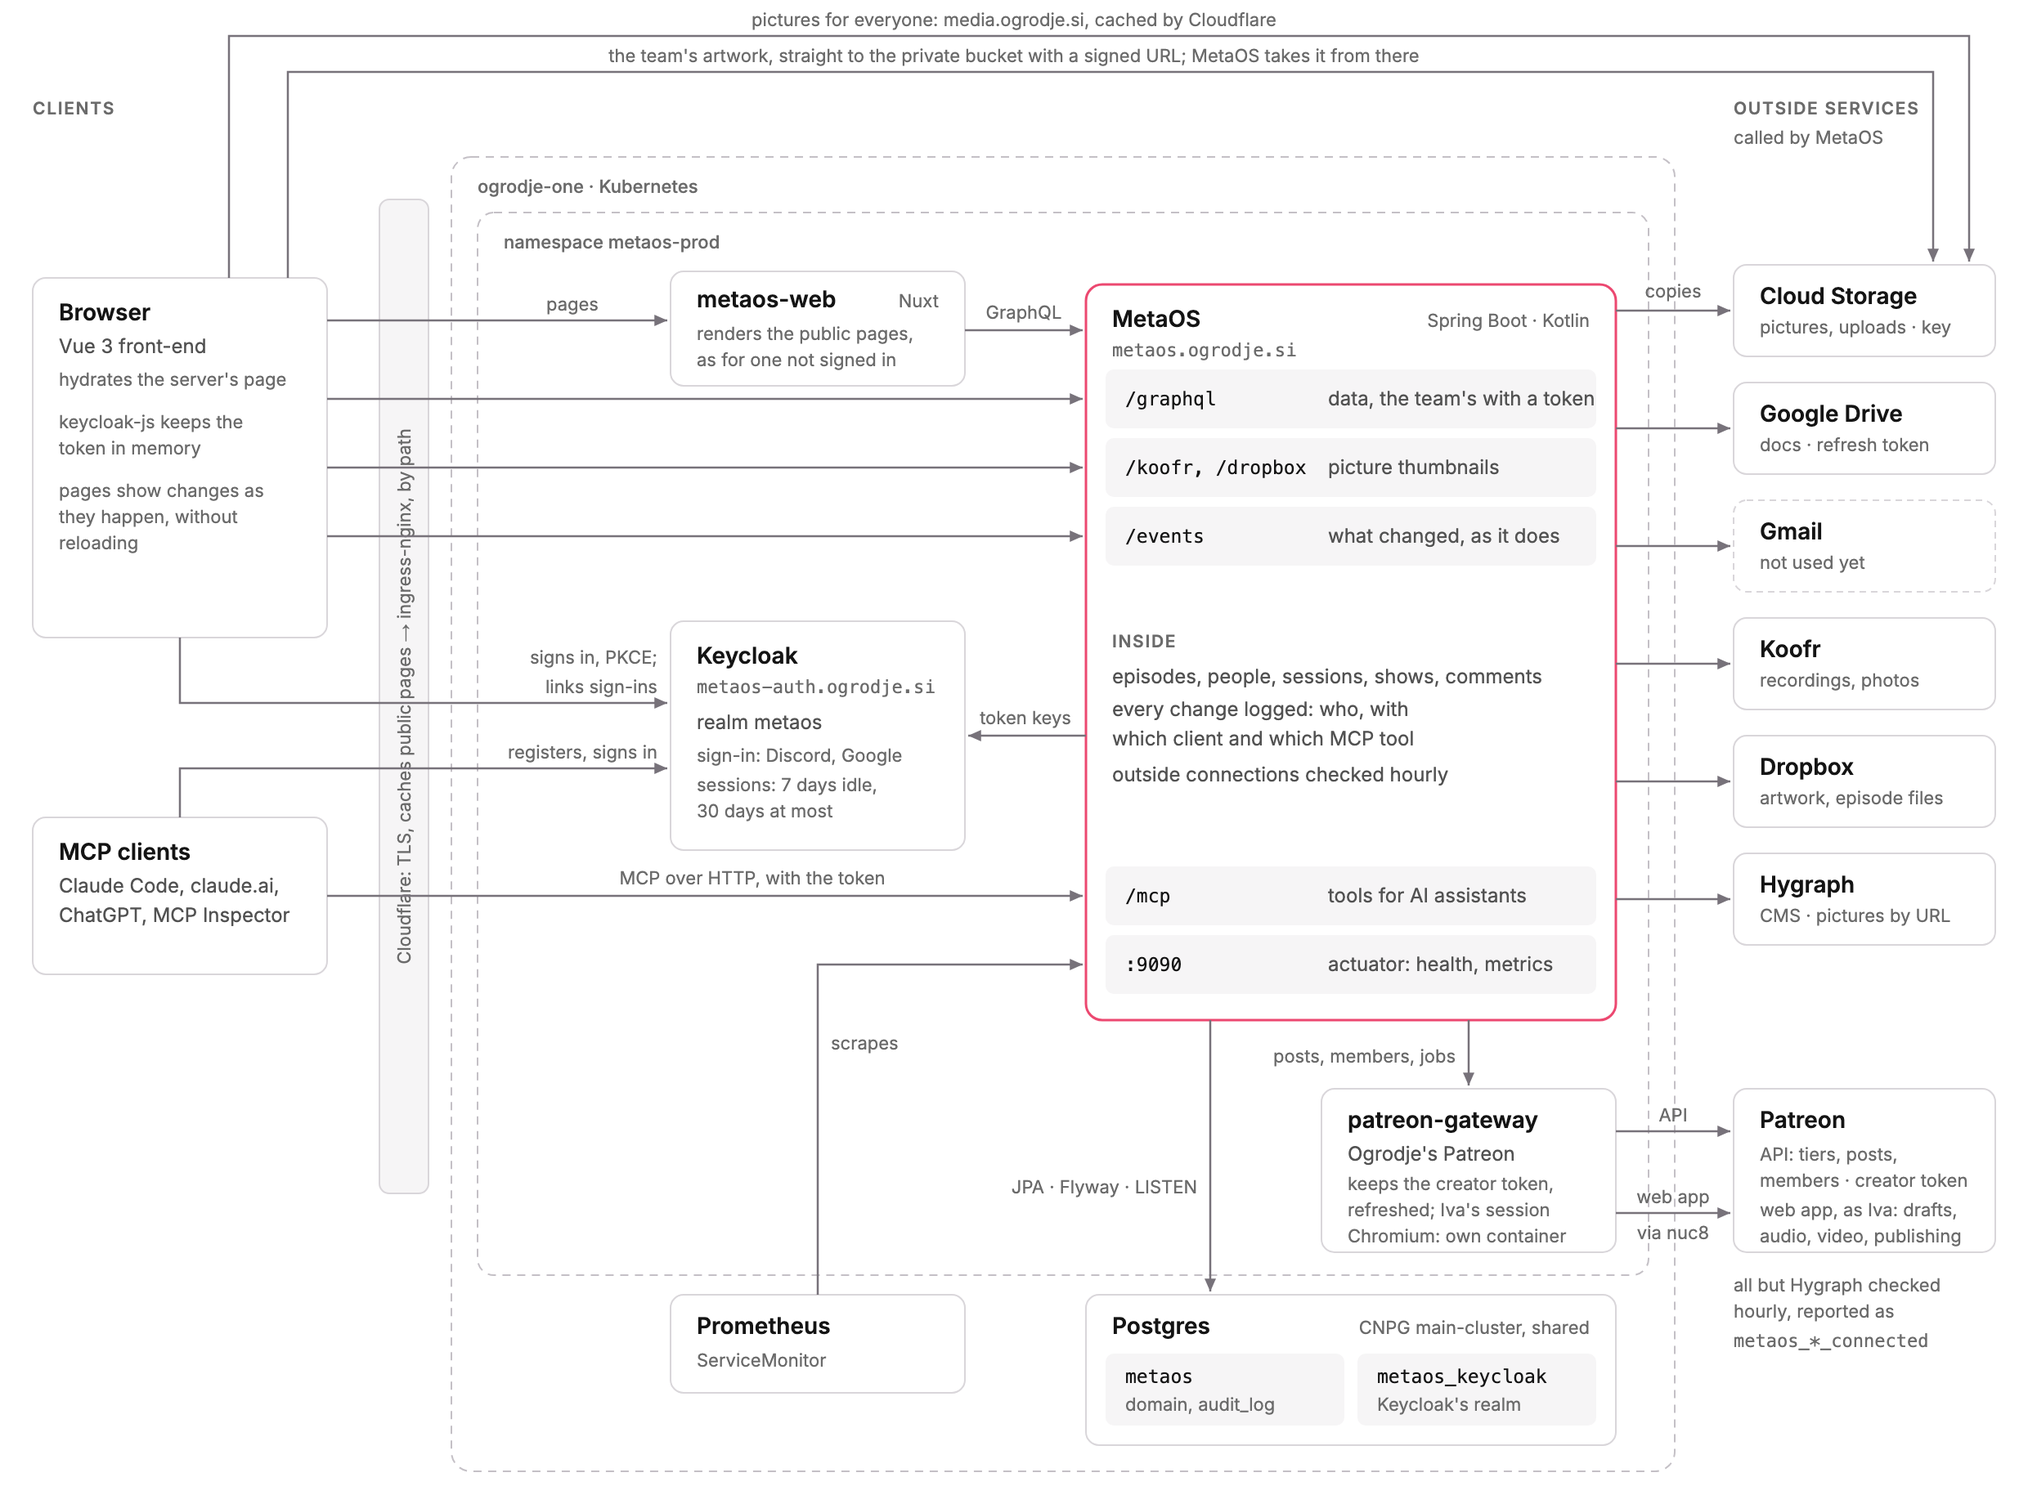
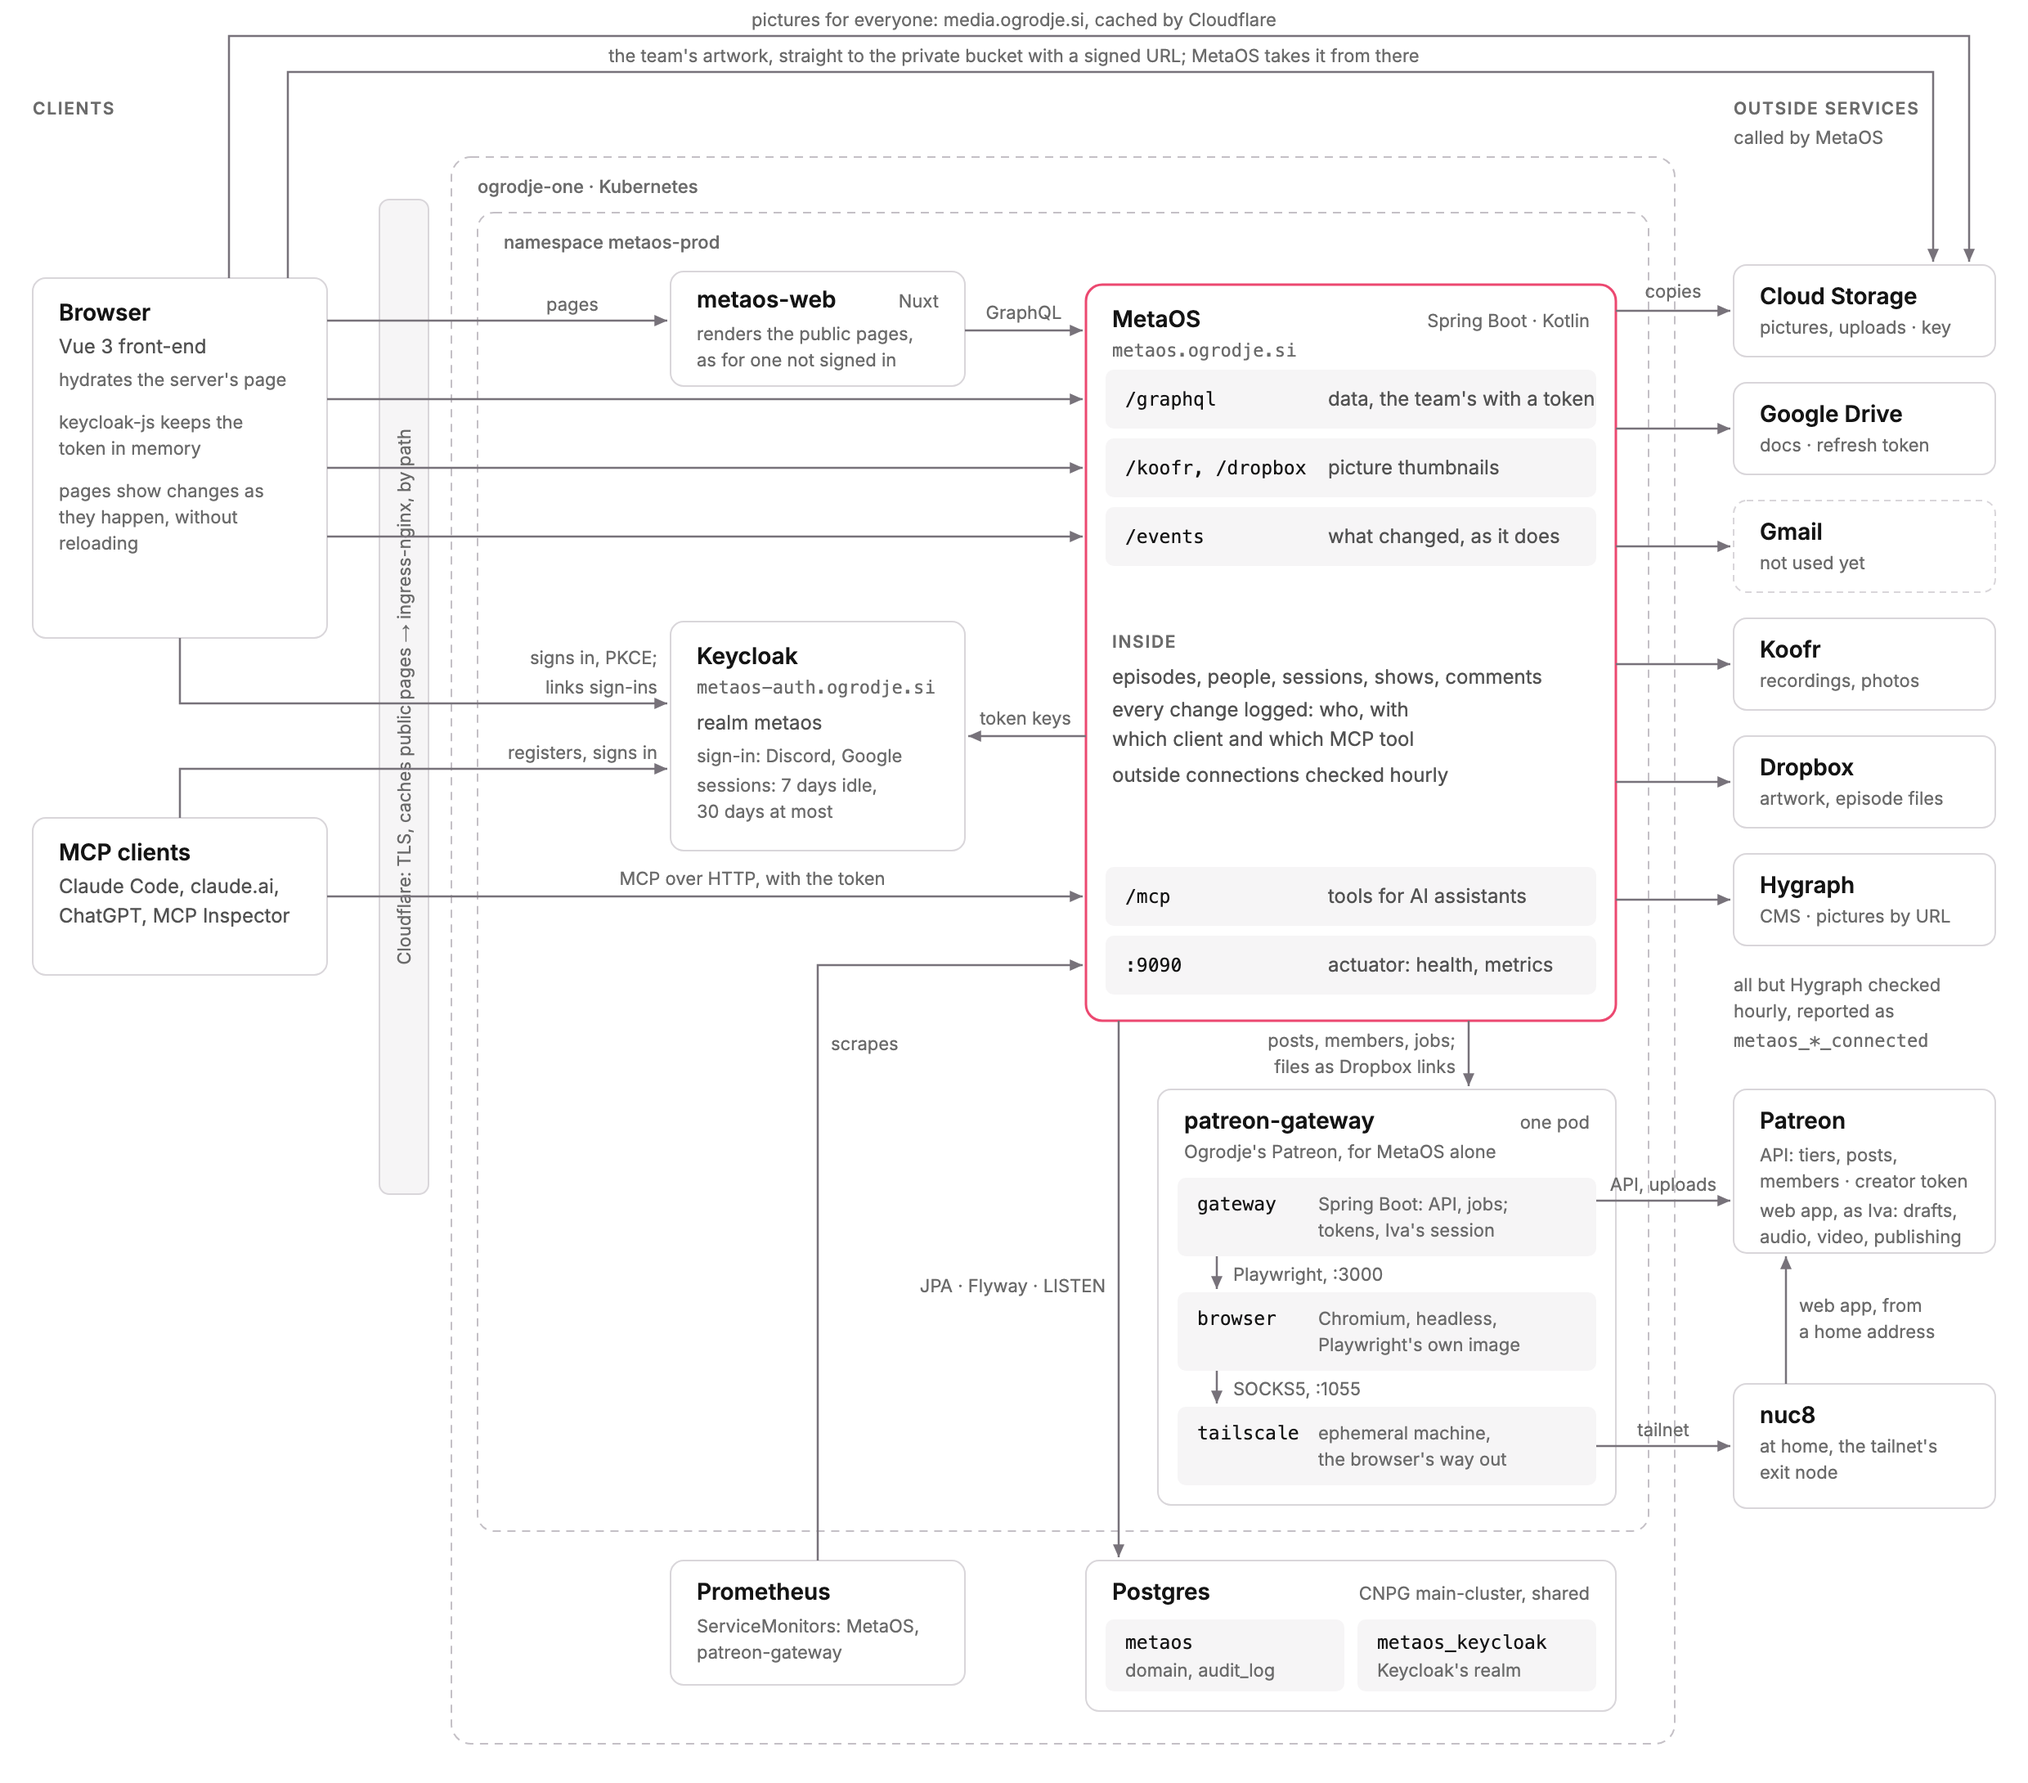
list_patreon_drafts, and patreon-gateway's pod in the architecture diagram (OG-23) (#34)
* list_patreon_drafts: the drafts on Patreon, through its web app (OG-23)

Patreon's API lists only published posts, so the team couldn't see its drafts
through MetaOS. The gateway's GET /drafts asks Patreon's web API for them, as
the creator's Library does (filter[is_draft]=true), last edited first, with
what each is (text, audio or video post) and where to edit it. MetaOS has it as
the list_patreon_drafts MCP tool, on the Usage page too.

* Architecture: patreon-gateway's pod, its browser and Tailscale, and nuc8 (OG-23)

The diagram showed patreon-gateway as one box with Patreon's web app "via nuc8".
It now draws the pod's three containers - the gateway, the browser (Chromium in
Playwright's image, over Playwright on :3000) and tailscale (SOCKS5 on :1055) -
and nuc8 at home, the tailnet's exit node, through which only the browser's
pages reach Patreon; the gateway's API calls and uploads go there straight.
Postgres and Prometheus move down to make room, and Prometheus says it scrapes
patreon-gateway too. The README's paragraph under it says the same.

---------

diff --git a/patreon-gateway/src/main/kotlin/si/ogrodje/patreon/PatreonWeb.kt b/patreon-gateway/src/main/kotlin/si/ogrodje/patreon/PatreonWeb.kt
@@ -36,7 +36,10 @@ data class PostSpec(
     val access: Access? = null,
 )
 
-/** A post as Patreon's web app has it, drafts too. */
+/**
+ * A post as Patreon's web app has it, drafts too. [type] is Patreon's: text_only, podcast (audio), video_external_file
+ * (video), ...
+ */
 data class WebPost(
     val id: String,
     val title: String?,
@@ -45,6 +48,8 @@ data class WebPost(
     val publishedAt: OffsetDateTime?,
     val scheduledFor: OffsetDateTime?,
     val draft: Boolean,
+    val type: String? = null,
+    val editedAt: OffsetDateTime? = null,
 )
 
 /**
@@ -95,6 +100,19 @@ class PatreonWeb(private val browser: Browser, private val api: PatreonApi, priv
     }
 
     fun get(job: String, id: String): WebPost = session(job) { webPost(current(it, postId(id))) }
+
+    /**
+     * The campaign's drafts, those scheduled too, last edited first, as its Library lists them: Patreon's API has only
+     * the published ones.
+     */
+    fun drafts(job: String): List<WebPost> = session(job) { session ->
+        session.call(
+            "GET",
+            "/api/posts?filter%5Bcampaign_id%5D=${api.campaignId()}&filter%5Bis_draft%5D=true" +
+                "&fields%5Bpost%5D=$WEB_POST_FIELDS&sort=-edited_at&page%5Bcount%5D=100",
+            null,
+        )["data"]?.toList().orEmpty().map(::webPost).filter { it.draft }
+    }
 
     /**
      * Puts a file on a draft as its audio or video, as the editor does: the post becomes a podcast post (and, as in the
@@ -272,6 +290,8 @@ class PatreonWeb(private val browser: Browser, private val api: PatreonApi, priv
             publishedAt = published,
             scheduledFor = attributes.text("scheduled_for")?.let(::patreonTime),
             draft = published == null,
+            type = attributes.text("post_type"),
+            editedAt = attributes.text("edited_at")?.let(::patreonTime),
         )
     }
 
@@ -374,7 +394,7 @@ class PatreonWeb(private val browser: Browser, private val api: PatreonApi, priv
         val CSRF = Regex("\"csrf_signature\"\\s*:\\s*\"([^\"]+)\"")
         val URL = Regex("https?://[^\\s<>\"]+[^\\s<>\".,;:!?)]")
         val PATREON_TIME: DateTimeFormatter = DateTimeFormatter.ofPattern("yyyy-MM-dd'T'HH:mm:ss")
-        const val WEB_POST_FIELDS = "title,url,published_at,scheduled_for,edit_url"
+        const val WEB_POST_FIELDS = "title,url,published_at,scheduled_for,edit_url,post_type,edited_at"
 
         // Patreon's web API, from the page, with its cookies and CSRF signature, as its editor calls it; given up after
         // two minutes, as nothing else times out a page's fetch, and one that hangs would hold the browser's one thread

diff --git a/src/test/kotlin/si/ogrodje/metaos/PatreonTest.kt b/src/test/kotlin/si/ogrodje/metaos/PatreonTest.kt
@@ -25,6 +25,7 @@ class PatreonTest {
                 exchange.requestHeaders.getFirst("Authorization") != "Bearer secret" -> 401 to """{"error":"A bearer token is needed"}"""
                 path == "/tiers" -> 200 to """[{"id":"9650087","title":"Developer","amountCents":300,"published":true,"patronCount":18}]"""
                 path.startsWith("/posts?") -> 200 to """{"items":[{"id":"171593625","title":"Domen Vreš","url":"https://www.patreon.com/ogrodje/posts/x-171593625","publishedAt":"2026-10-13T06:35:26Z","public":true,"paid":false,"tiers":[],"content":"<p>Hi</p>","embedUrl":null}],"total":1}"""
+                path == "/drafts" -> 200 to """[{"id":"172923221","title":"S05E08 Poletna vročica VIDEO","url":"https://www.patreon.com/ogrodje/posts/s05e08-172923221","editUrl":"https://www.patreon.com/posts/172923221/edit","publishedAt":null,"scheduledFor":null,"draft":true,"type":"video_external_file","editedAt":"2026-10-25T20:00:00Z"}]"""
                 path == "/posts/404" -> 404 to """{"error":"No published post 404"}"""
                 path.startsWith("/members?") -> 200 to """{"items":[{"id":"m-1","name":"Ana","email":"ana@example.com","status":"active_patron","tiers":["Engineer"],"pledgeCents":1000,"lifetimeSupportCents":12000,"since":"2024-10-11T09:30:23.301Z","lastChargeDate":"2026-10-11T00:35:23Z","lastChargeStatus":"Paid","freeTrial":false,"gifted":false}],"total":30}"""
                 path == "/posts" -> 202 to job("QUEUED", null)
@@ -66,6 +67,15 @@ class PatreonTest {
         assertEquals("ACTIVE_PATRON", page.members.single().status)
         assertEquals(listOf("Engineer"), page.members.single().tiers)
         assertTrue(asked.any { it.startsWith("GET /members?limit=10&offset=0&query=ana&status=active_patron&tier=Engineer ") }, asked.toString())
+    }
+
+    @Test
+    fun `drafts come with what they are and when they were edited`() {
+        val draft = patreon.drafts().single()
+        assertEquals("172923221", draft.id)
+        assertTrue(draft.draft)
+        assertEquals("video_external_file", draft.type)
+        assertEquals(java.time.OffsetDateTime.parse("2026-10-25T20:00:00Z"), draft.editedAt)
     }
 
     @Test

diff --git a/src/main/kotlin/si/ogrodje/metaos/Patreon.kt b/src/main/kotlin/si/ogrodje/metaos/Patreon.kt
@@ -55,7 +55,7 @@ enum class PatreonMemberStatus(val gateway: String) { ACTIVE_PATRON("active_patr
 
 data class PatreonMembers(val members: List<PatreonMember>, val total: Int)
 
-/** A post as Patreon's web app has it, drafts too. */
+/** A post as Patreon's web app has it, drafts too; [type] text_only, podcast (audio), video_external_file (video), ... */
 data class PatreonDraft(
     val id: String,
     val title: String?,
@@ -64,6 +64,8 @@ data class PatreonDraft(
     val publishedAt: OffsetDateTime?,
     val scheduledFor: OffsetDateTime?,
     val draft: Boolean,
+    val type: String? = null,
+    val editedAt: OffsetDateTime? = null,
 )
 
 /** Something the gateway does in Patreon's web app; [result] is what it made once it [status] SUCCEEDED. */
@@ -120,6 +122,9 @@ class Patreon(
     } catch (e: PatreonGatewayException) {
         if (e.message?.startsWith("404") == true) null else throw e
     }
+
+    /** The drafts, scheduled ones too, last edited first, through Patreon's web app: its API lists only what's published. */
+    fun drafts(): List<PatreonDraft> = read("/drafts")
 
     /** A post, drafts too, through Patreon's web app. */
     fun draft(id: String): PatreonDraft = read("/posts/${postId(id)}/web")

diff --git a/fe/src/tools.ts b/fe/src/tools.ts
@@ -170,6 +170,7 @@ export const TOOL_GROUPS: ToolGroup[] = [
       { name: 'list_patreon_tiers', description: 'The tiers, cheapest first, with their prices and patrons' },
       { name: 'list_patreon_members', description: 'The members, patrons first: their status, tiers, pledge, what they gave in all and their last charge' },
       { name: 'list_patreon_posts', description: 'The published posts, newest first, or those with words in their titles' },
+      { name: 'list_patreon_drafts', description: 'The drafts, scheduled ones too, last edited first, with where to edit them' },
       { name: 'get_patreon_post', description: 'A post, published or a draft, with its text and who may see it' },
       { name: 'create_patreon_draft', description: 'Make a draft post, for everyone, every patron or some tiers; only the team sees it' },
       { name: 'update_patreon_post', description: "Change a post's title, text or who may see it" },

diff --git a/src/main/kotlin/si/ogrodje/metaos/PatreonMCP.kt b/src/main/kotlin/si/ogrodje/metaos/PatreonMCP.kt
@@ -78,6 +78,17 @@ class PatreonMCP(
     ): List<PatreonPost> = patreon.posts(query?.trim()?.ifEmpty { null }, (limit ?: 20).coerceIn(1, 200))
 
     @McpTool(
+        name = "list_patreon_drafts",
+        annotations = McpTool.McpAnnotations(
+            title = "List Patreon drafts",
+            readOnlyHint = true, destructiveHint = false, idempotentHint = true, openWorldHint = false
+        ),
+        description = "List the drafts on Ogrodje's Patreon, scheduled ones too, last edited first: what they are (text, " +
+            "audio or video post) and where to edit them. Only the team sees them until they're published"
+    )
+    fun drafts(): List<PatreonDraft> = patreon.drafts()
+
+    @McpTool(
         name = "get_patreon_post",
         annotations = McpTool.McpAnnotations(
             title = "Get Patreon post",

diff --git a/patreon-gateway/src/main/kotlin/si/ogrodje/patreon/PostsApi.kt b/patreon-gateway/src/main/kotlin/si/ogrodje/patreon/PostsApi.kt
@@ -50,6 +50,10 @@ class PostsApi(private val web: PatreonWeb, private val jobs: Jobs) {
     fun delete(@PathVariable id: String, @RequestHeader("Idempotency-Key", required = false) key: String?) =
         accepted(jobs.submit("delete-post", key) { web.delete(it, id) })
 
+    /** The campaign's drafts, last edited first, which Patreon's API doesn't list. */
+    @GetMapping("/drafts")
+    fun drafts() = web.drafts("drafts")
+
     /** A post as Patreon's web app has it, drafts too, which its API doesn't show. */
     @GetMapping("/posts/{id}/web")
     fun webPost(@PathVariable id: String) = web.get("get-${id.filter(Char::isLetterOrDigit)}", id)

diff --git a/README.md b/README.md
@@ -17,9 +17,11 @@ passes on to the open pages, so they show it without being reloaded. Pictures ev
 thumbnails from Dropbox and people's avatars from Hygraph, MetaOS copies to its public bucket in Google Cloud Storage,
 from which browsers load them at media.ogrodje.si, cached by Cloudflare; the team uploads an episode's artwork from
 its page straight to MetaOS's private bucket, and MetaOS publishes it from there. Ogrodje's Patreon MetaOS reaches
-through patreon-gateway, a service of its own beside it, which reads through Patreon's API and makes, changes and
-publishes posts, with an episode's audio or video, in Patreon's web app, signed in as the bot. Everything runs on
-Ogrodje's Kubernetes cluster, behind Cloudflare.
+through patreon-gateway, a pod of its own beside it, which reads through Patreon's API and makes, changes and
+publishes posts, with an episode's audio or video, in Patreon's web app, signed in as the bot, in a headless Chromium
+in a container of its own. Patreon's bot check turns away the cluster's address, so that browser goes out through the
+pod's Tailscale container and nuc8, a machine at home; the API and the uploads go straight to Patreon. Everything runs
+on Ogrodje's Kubernetes cluster, behind Cloudflare.
 
 The diagram is drawn in [`architecture.svg`](architecture.svg); `just architecture` renders `architecture.png` from it.
 

diff --git a/CLAUDE.md b/CLAUDE.md
@@ -498,7 +498,8 @@ a time; one Patreon turns away (a rate limit) tries again by itself.
 
 - [`Patreon.kt`](src/main/kotlin/si/ogrodje/metaos/Patreon.kt) is MetaOS's client: `PATREON_GATEWAY_URL` and
   `PATREON_GATEWAY_TOKEN` turn it on (`metaos.patreon.*`); it's off without the token. `PatreonMCP` has the tools:
-  tiers, members (`list_patreon_members`: status, tiers, pledges and charges, with names and emails) and posts, drafts (`create_patreon_draft`), their audio or video from Dropbox, as a temporary link the gateway
+  tiers, members (`list_patreon_members`: status, tiers, pledges and charges, with names and emails), posts and drafts
+  (`list_patreon_drafts`, through Patreon's web app, as its API lists only what's published), new drafts (`create_patreon_draft`), their audio or video from Dropbox, as a temporary link the gateway
   downloads, or any https URL (`set_patreon_post_media`), publishing, which can set the episode's Patreon link
   (`publish_patreon_post`, the only one patrons see, so the only open-world one), deleting, and the jobs. Quick changes
   are waited for; an upload comes back as a job (`get_patreon_job`).

diff --git a/patreon-gateway/README.md b/patreon-gateway/README.md
@@ -71,6 +71,7 @@ Every call but the actuator's (probes, metrics) needs `Authorization: Bearer $PA
 | `GET /token`, `POST /token/refresh` | when the creator token runs out and was refreshed (never the tokens); refresh it now |
 | `GET /posts?query&limit`      | published posts, newest first, words in their titles                                      |
 | `GET /posts/{id}`             | a published post (Patreon's API)                                                           |
+| `GET /drafts`                 | drafts, scheduled ones too, last edited first (Patreon's web app; its API lists none) |
 | `GET /posts/{id}/web`         | a post, drafts too (Patreon's web app)                                                     |
 | `POST /posts`                 | a draft: `{title, text, access: {kind: PUBLIC, PATRONS or TIERS, tiers}}`                  |
 | `PATCH /posts/{id}`           | changes a post; what's left out stays                                                      |
